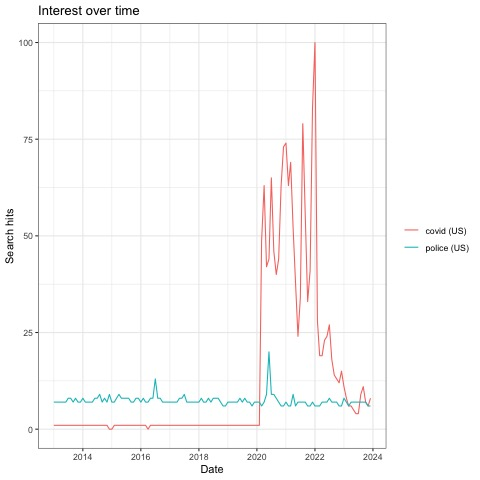
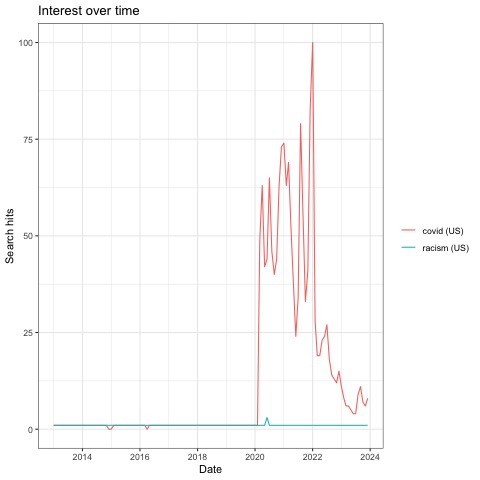
code fix

diff --git a/README.md b/README.md
@@ -2,6 +2,6 @@
 
 Various explorations of race and racism in STEM education.
 
-![](https://github.com/professornaite/racism-stem-ed/blob/main/output/plots-trends/covid-racism-10year.jpeg?raw=true)
+![](https://github.com/professornaite/racism-stem-ed/blob/main/output/plots-trends/racism-10year.jpeg?raw=false)
 
 Project team: Nathan Alexander, Qyana Stewart, Basil Ghali
